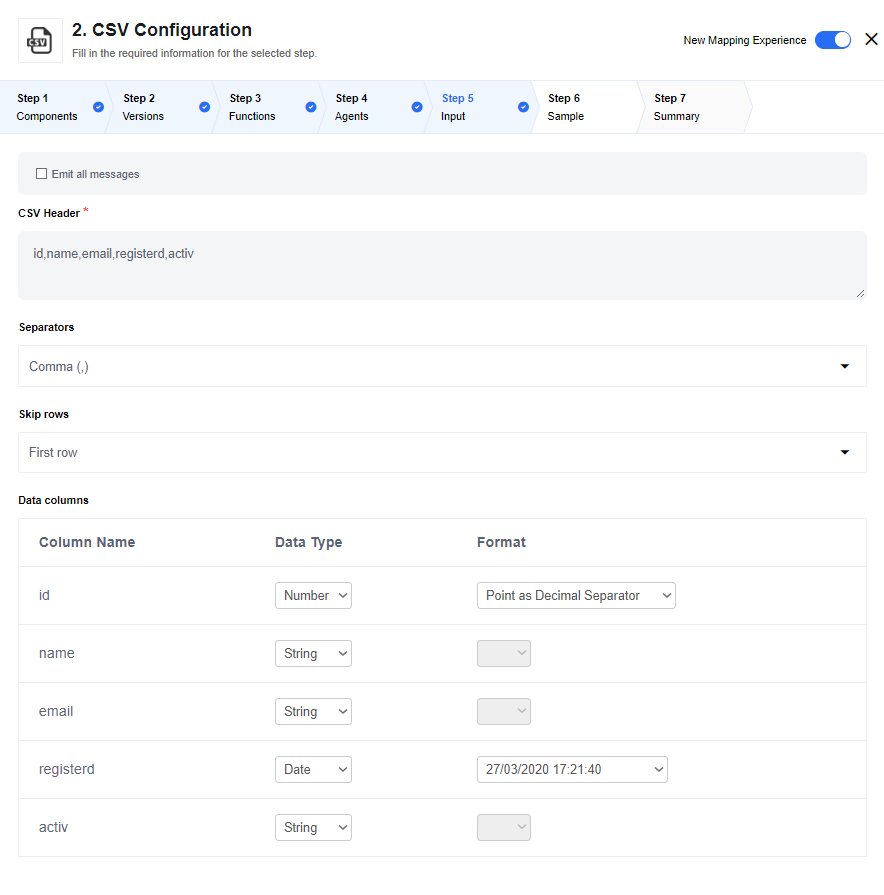
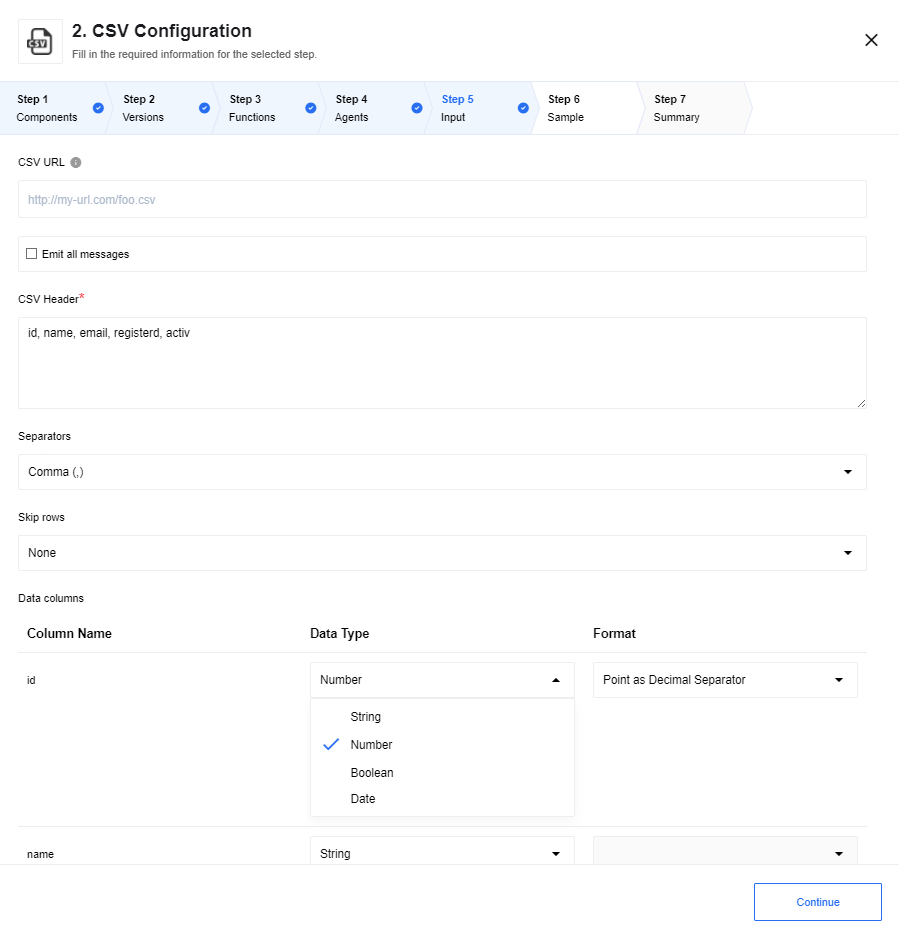
Updating CSV to Version 3.0.0

diff --git a/content/_components/csv/actions.md b/content/_components/csv/actions.md
@@ -5,8 +5,8 @@ description: CSV component actions.
 icon: csv.png
 icontext: CSV component
 category: csv
-updatedDate: 2021-04-23
-ComponentVersion: 2.2.0
+updatedDate: 2021-06-25
+ComponentVersion: 3.0.0
 ---
 
 ## Read CSV attachment
@@ -16,13 +16,16 @@ To configure this action the following fields can be used:
 
 ![Read CVS attachments](img/read-CSV-attachment.png)
 
-*   `CSV URL` - the full URL to the file for retrieving data. Leave the field blank and action will read CSV attachment of the incoming message (if any). Error will be thrown if URL of the CSV is missing and no CSV file in incoming message found
-*   `Emit all messages` - this checkbox configures output behavior of the component. If the option is checked - the component emits an array of messages, otherwise - the component emits a message per row.
-*   `CSV Header` - this is a required field. Input the names of headers separated with a comma.
-*   `Separators` - Specify the separator type. Usually it is a comma (`,`) but values like Semicolon (`;`), Space (` `), Tab (`\t`) and Hash (`#`) are also supported.
-*   `Skip rows` - if you know that the incoming CSV file has certain number of headers you can indicate to skip them. The supported values are `None`, `First row`, `First two`, `First three` and `First four`.
-*   `Data columns` - here the values will be added dynamically based on the values in the `CSV Header` field. Here each data column will be listed with the name, Data Type and the Format to enable further configuration.
+### Config Fields
 
+*   `Emit Behavior` - this selector configures output behavior of the component. If the option is `Fetch All` - the component emits an array of messages, otherwise (`Emit Individually`) - the component emits a message per row.
+
+### Input Metadata
+
+*   `URL` - We will fetch this URL and parse it as CSV file
+*   `Contains headers` - if true, the first row of parsed data will be interpreted as field names, false by default.
+*   `Delimiter` - The delimiting character. Leave blank to auto-detect from a list of most common delimiters.
+*   `Convert Data types` - numeric, date and boolean data will be converted to their type instead of remaining strings, false by default.
 
 ## Write CSV attachment
 

diff --git a/content/_components/csv/index.md b/content/_components/csv/index.md
@@ -6,8 +6,8 @@ description: A simple file format used to store tabular data, for example from a
 icon: csv.png
 icontext: CSV component
 category: csv
-updatedDate: 2021-04-23
-ComponentVersion: 2.2.0
+updatedDate: 2021-06-25
+ComponentVersion: 3.0.0
 ---
 
 ## How works
@@ -42,8 +42,8 @@ The component does not require credentials to function.
 
 ## Triggers
 
-  1. [Read CSV file from URL](/components/csv/triggers#read-csv-file-from-url)
-  This trigger will fetch the CSV file from a given URL.
+This component has no trigger functions. This means it will not be accessible to
+select as a first component during the integration flow design.
 
 ## Actions
 

diff --git a/content/_components/csv/technical-notes.md b/content/_components/csv/technical-notes.md
@@ -5,13 +5,19 @@ description: Technical Notes for the CSV component.
 icon: csv.png
 icontext: CSV component
 category: csv
-updatedDate: 2021-04-23
-ComponentVersion: 2.2.0
+updatedDate: 2021-06-25
+ComponentVersion: 3.0.0
 redirect_from:
   - /components/csv/changelog.html
 ---
 
 ## Changelog
+
+### 3.0.0 (June 25, 2021)
+
+* Deleted old action: `Read CSV file from URL`
+* Deleted old trigger: `Read CSV attachment`
+* Add New action: `Read CSV attachment`
 
 ### 2.2.0 (April 23, 2021)
 
